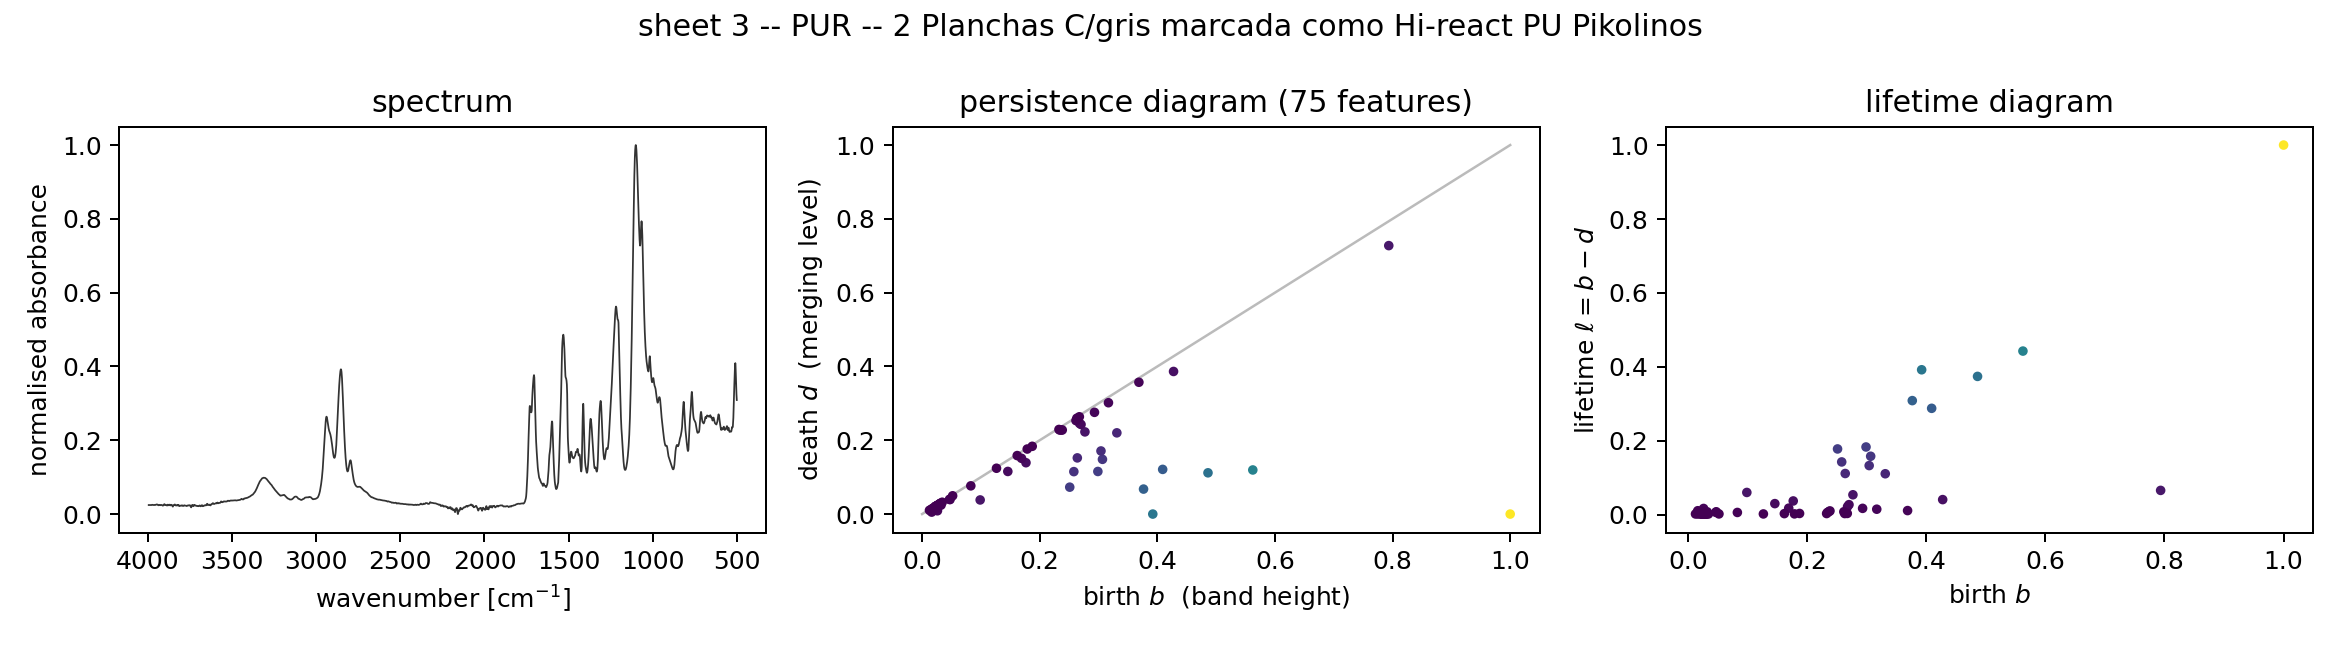
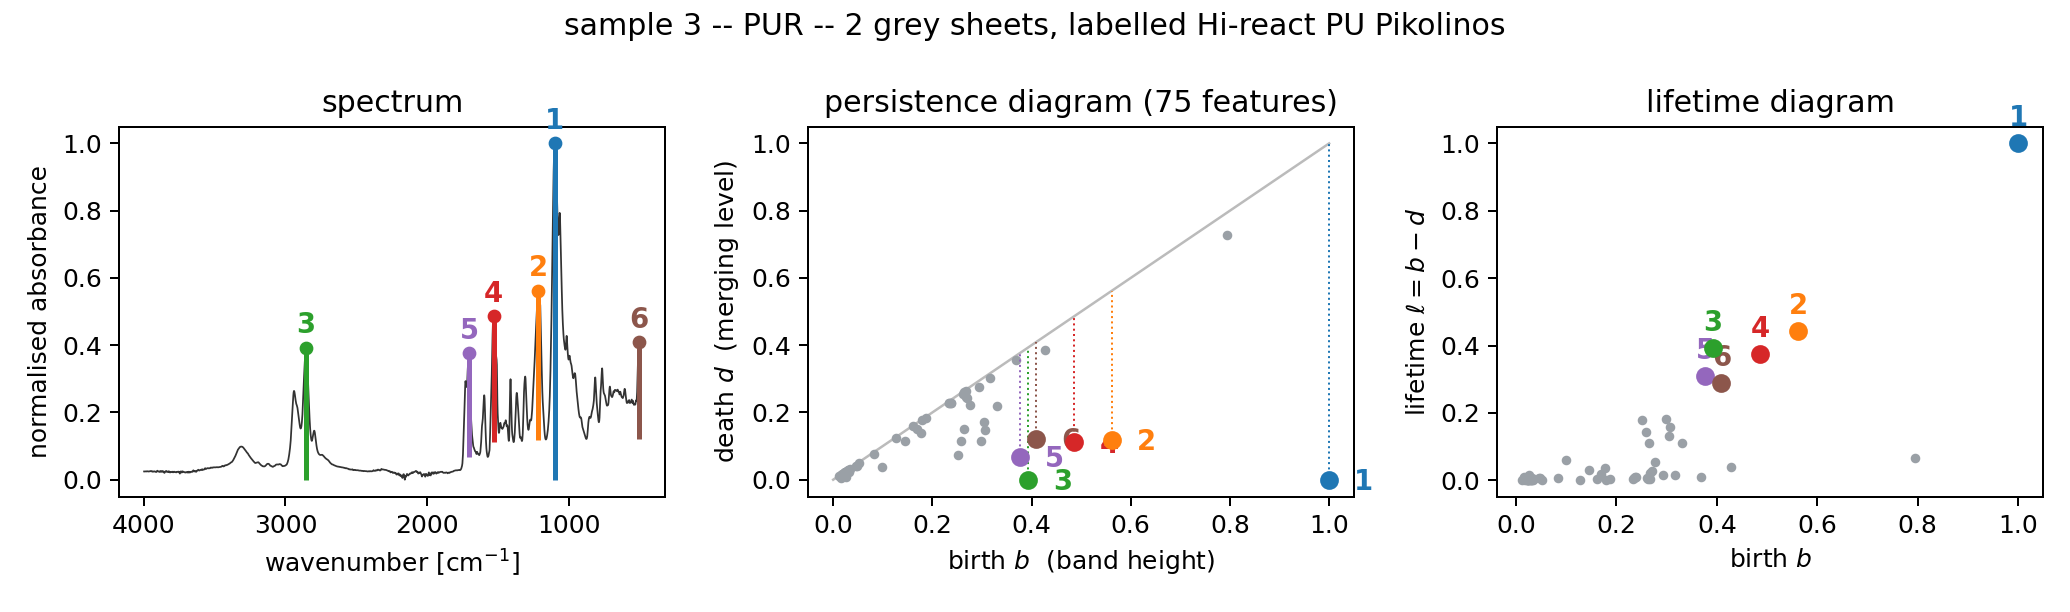
Translate the sample descriptions and mark feature correspondence
The heading of the per-sample diagram figures was the batch description of the
source study, which is Spanish free text. Rather than hard-coding one English
string, add irtda.descriptions, which parses the closed vocabulary those
descriptions use -- three container forms, eight colours, three treatments, the
family acronyms -- and re-renders the fields in English adjective-noun order,
carrying trade names, hardness grades and internal codes through verbatim.
translate() raises UnknownTerm on any Spanish word outside that vocabulary, so a
description added later cannot silently reach a figure in the wrong language.
dataset.load_workbook_spectra now emits description_en alongside description,
and labels.csv carries the column.

plot_diagram numbers the six most persistent features and gives each a colour
shared across the three panels, so a band can be followed from the spectrum to
the point of the persistence diagram it generates and to the point of the
lifetime diagram it becomes. In the spectrum the feature is drawn as a bar
spanning its prominence, from the merging level d up to the band height b, which
also makes the definition of the lifetime visible. Font and marker sizes are set
for the reduction the figure undergoes at full text width.

Three tests cover the translation: the seven description shapes present in the
study, the refusal of an unknown word, and a sweep over all 39 descriptions.

No result changes; only figures/02_diagram_*.png and labels.csv are affected.

diff --git a/src/irtda/descriptions.py b/src/irtda/descriptions.py
@@ -1,0 +1,183 @@
+"""English rendering of the Spanish sample descriptions of the source study.
+
+The characterisation campaign of Blasco et al. (2021) lists every compound by a
+free-text Spanish description of the batch as it was delivered --- how many
+plates or pairs of soles arrived, in what colour, under what trade designation.
+Those strings are the natural sample identifiers and are used as such in the
+figures, but a manuscript written in English cannot carry them untranslated.
+
+The descriptions follow a regular pattern,
+
+    <quantity> <form> [<material>] <colour> <grade ...> [<treatment>]
+
+over a closed vocabulary of eight colours, three container forms and three
+treatments, with everything the parser does not recognise --- trade names,
+hardness grades, internal codes --- carried through verbatim, since those are
+proper nouns and must not be translated. Rendering the parsed fields in English
+adjective-noun order gives idiomatic text rather than the word-by-word
+substitution a lookup table would produce.
+
+The translation is deliberately mechanical and total: :func:`translate` raises
+on any Spanish word it does not know, so that a description added later cannot
+silently reach a figure in the wrong language.
+"""
+
+from __future__ import annotations
+
+import re
+
+__all__ = ["translate", "UnknownTerm"]
+
+
+class UnknownTerm(ValueError):
+    """A description contains a Spanish word outside the closed vocabulary."""
+
+
+# Container in which the batch was supplied.
+FORMS: dict[str, tuple[str, str]] = {
+    "plancha": ("sheet", "sheets"),
+    "planchas": ("sheet", "sheets"),
+    "par": ("pair", "pairs"),
+    "pares": ("pair", "pairs"),
+    "muestra": ("sample", "samples"),
+    "muestras": ("sample", "samples"),
+}
+
+COLOURS: dict[str, str] = {
+    "negro": "black",
+    "marron": "brown",
+    "amarillo": "yellow",
+    "caramelo": "tan",
+    "crudo": "natural",
+    "transparente": "clear",
+    "gris": "grey",
+    "blanco": "white",
+}
+
+# "C/" abbreviates "color"; "C/gris" is a grey-coloured batch.
+COLOUR_PREFIX = re.compile(r"^c/(?P<colour>\w+)$", re.IGNORECASE)
+
+TREATMENTS: dict[str, str] = {
+    "lavado": "washed",
+    "lavados": "washed",
+    "relleno": "filled",
+}
+
+# Material names and family acronyms. The acronyms are carried through
+# unchanged but are recognised here so that they take the adjective-noun
+# position ("black TPU sheets") rather than being pushed into the designation.
+MATERIALS: dict[str, str] = {
+    "caucho": "rubber",
+    "latex": "latex",
+    "eva": "EVA",
+    "tpu": "TPU",
+    "tr": "TR",
+    "pur": "PUR",
+    "pvc": "PVC",
+    "pu": "PU",
+}
+
+# Function words carrying no information once the fields are reordered.
+STOPWORDS = {"de", "del", "la", "el", "los", "las", "y"}
+
+# Multi-word constructions, matched before the token pass.
+PHRASES: list[tuple[re.Pattern[str], str]] = [
+    (re.compile(r"\bsin\s+lavar\b", re.IGNORECASE), "@unwashed"),
+    (re.compile(r"\bmarcada?\s+como\b", re.IGNORECASE), "@labelled"),
+]
+
+_ACCENTS = str.maketrans("áéíóúüñÁÉÍÓÚÜÑ", "aeiouunAEIOUUN")
+
+
+def _fold(word: str) -> str:
+    return word.translate(_ACCENTS).lower()
+
+
+def translate(description: str) -> str:
+    """Render a Spanish batch description in English.
+
+    Parameters
+    ----------
+    description
+        The free-text description as it appears in the source study, e.g.
+        ``"5 planchas PUR negro BK sin lavar"``.
+
+    Returns
+    -------
+    str
+        The English rendering, e.g. ``"5 black PUR sheets, BK, unwashed"``.
+
+    Raises
+    ------
+    UnknownTerm
+        If a lower-case word is neither in the vocabulary above nor recognisable
+        as a designation (which are kept verbatim). Designations are detected by
+        case and punctuation: a token containing an upper-case letter, a digit
+        or a slash is a trade name, a hardness grade or an internal code.
+    """
+    text = description.strip()
+    for pattern, marker in PHRASES:
+        text = pattern.sub(marker, text)
+
+    quantity: str | None = None
+    form: tuple[str, str] | None = None
+    colour: str | None = None
+    material: str | None = None
+    labelled = False
+    treatments: list[str] = []
+    designation: list[str] = []
+
+    for token in text.split():
+        folded = _fold(token)
+
+        if quantity is None and designation == [] and token.isdigit():
+            quantity = token
+            continue
+        if folded == "@unwashed":
+            treatments.append("unwashed")
+            continue
+        if folded == "@labelled":
+            labelled = True
+            continue
+        if folded in STOPWORDS:
+            continue
+        if folded in FORMS:
+            form = FORMS[folded]
+            continue
+        if folded in TREATMENTS:
+            treatments.append(TREATMENTS[folded])
+            continue
+        if folded in COLOURS and colour is None:
+            colour = COLOURS[folded]
+            continue
+        # Everything after "marcada como" is a quoted trade designation and is
+        # reproduced verbatim, so no material is extracted from it.
+        if folded in MATERIALS and material is None and not labelled:
+            material = MATERIALS[folded]
+            continue
+
+        match = COLOUR_PREFIX.match(folded)
+        if match and colour is None:
+            key = match.group("colour")
+            if key not in COLOURS:
+                raise UnknownTerm(f"unknown colour {key!r} in {description!r}")
+            colour = COLOURS[key]
+            continue
+
+        # Anything left must look like a designation rather than a Spanish word.
+        if token.islower() and token.isalpha():
+            raise UnknownTerm(f"untranslated word {token!r} in {description!r}")
+        designation.append(token)
+
+    plural = quantity is not None and quantity != "1"
+    head = [part for part in (quantity, colour, material) if part]
+    if form is not None:
+        head.append(form[1] if plural else form[0])
+
+    out = " ".join(head)
+    if designation:
+        joined = " ".join(designation)
+        out += f", labelled {joined}" if labelled else f", {joined}"
+    if treatments:
+        out += ", " + " and ".join(treatments)
+    return out

diff --git a/src/irtda/plotting.py b/src/irtda/plotting.py
@@ -64,31 +64,77 @@ def plot_spectra_by_family(wavenumber, intensity, families, path):
     plt.close(fig)
 
 
-def plot_diagram(wavenumber, intensity, diagram, title, path, n_annotate=8):
-    """Spectrum, its persistence diagram and its lifetime diagram, side by side."""
-    fig, axes = plt.subplots(1, 3, figsize=(13, 3.6))
+def plot_diagram(wavenumber, intensity, diagram, title, path,
+                 birth_wavenumber=None, n_annotate=6):
+    """Spectrum, its persistence diagram and its lifetime diagram, side by side.
 
-    axes[0].plot(wavenumber, intensity, lw=0.7, color="#333333")
-    axes[0].invert_xaxis()
-    axes[0].set_xlabel("wavenumber [cm$^{-1}$]")
-    axes[0].set_ylabel("normalised absorbance")
-    axes[0].set_title("spectrum")
+    The ``n_annotate`` most persistent features are numbered and given a common
+    colour in all three panels, so that the correspondence between an absorption
+    band, the point of the persistence diagram it generates and the point of the
+    lifetime diagram it becomes can be followed by eye. In the spectrum the
+    feature is drawn as a vertical bar spanning its prominence, from the merging
+    level ``d`` up to the band height ``b``.
+
+    Parameters
+    ----------
+    birth_wavenumber
+        Wavenumber of the maximum generating each feature, aligned row by row
+        with ``diagram`` --- the first column of the position-lifetime diagram.
+        Without it the panels are drawn unnumbered.
+    """
+    fig, axes = plt.subplots(1, 3, figsize=(11.5, 3.4))
 
     # Superlevel-set diagrams are expressed in the units of the spectrum, so
     # birth is the band height, death < birth is the merging level, and the
     # points lie below the diagonal.
     lifetimes = persistence_of(diagram)
+    lt = lifetime_diagram(diagram)
+
+    marked = np.empty(0, dtype=int)
+    if birth_wavenumber is not None and len(diagram):
+        marked = np.argsort(-lifetimes)[: min(n_annotate, len(diagram))]
+    palette = plt.get_cmap("tab10")
+    colour = {int(k): palette(i % 10) for i, k in enumerate(marked)}
+
+    def annotate(ax, x, y, rank, feature, offset=(0, 6), ha="center"):
+        ax.annotate(str(rank), (x, y), textcoords="offset points",
+                    xytext=offset, ha=ha, va="center", fontsize=11,
+                    weight="bold", color=colour[feature])
+
+    # -- spectrum ------------------------------------------------------------
+    axes[0].plot(wavenumber, intensity, lw=0.7, color="#333333", zorder=2)
+    for rank, k in enumerate(marked, start=1):
+        k = int(k)
+        nu, b, d = birth_wavenumber[k], diagram[k, 0], diagram[k, 1]
+        axes[0].vlines(nu, d, b, color=colour[k], lw=2.0, zorder=3)
+        axes[0].plot([nu], [b], "o", ms=4.5, color=colour[k], zorder=4)
+        annotate(axes[0], nu, b, rank, k, offset=(0, 9))
+    axes[0].invert_xaxis()
+    axes[0].set_xlabel("wavenumber [cm$^{-1}$]")
+    axes[0].set_ylabel("normalised absorbance")
+    axes[0].set_title("spectrum")
+
+    # -- persistence diagram -------------------------------------------------
     lo = min(diagram[:, 0].min(), diagram[:, 1].min())
     hi = max(diagram[:, 0].max(), diagram[:, 1].max())
-    axes[1].plot([lo, hi], [lo, hi], color="#bbbbbb", lw=1)
-    axes[1].scatter(diagram[:, 0], diagram[:, 1], s=8, c=lifetimes,
-                    cmap="viridis", zorder=3)
+    axes[1].plot([lo, hi], [lo, hi], color="#bbbbbb", lw=1, zorder=1)
+    axes[1].scatter(diagram[:, 0], diagram[:, 1], s=8, color="#9aa0a6", zorder=2)
+    for rank, k in enumerate(marked, start=1):
+        k = int(k)
+        b, d = diagram[k, 0], diagram[k, 1]
+        axes[1].vlines(b, d, b, color=colour[k], lw=0.8, ls=":", zorder=3)
+        axes[1].plot([b], [d], "o", ms=6.5, color=colour[k], zorder=4)
+        annotate(axes[1], b, d, rank, k, offset=(10, -1), ha="left")
     axes[1].set_xlabel(r"birth $b$  (band height)")
     axes[1].set_ylabel(r"death $d$  (merging level)")
     axes[1].set_title(f"persistence diagram ({len(diagram)} features)")
 
-    lt = lifetime_diagram(diagram)
-    axes[2].scatter(lt[:, 0], lt[:, 1], s=8, c=lt[:, 1], cmap="viridis")
+    # -- lifetime diagram ----------------------------------------------------
+    axes[2].scatter(lt[:, 0], lt[:, 1], s=8, color="#9aa0a6", zorder=2)
+    for rank, k in enumerate(marked, start=1):
+        k = int(k)
+        axes[2].plot([lt[k, 0]], [lt[k, 1]], "o", ms=6.5, color=colour[k], zorder=4)
+        annotate(axes[2], lt[k, 0], lt[k, 1], rank, k, offset=(0, 10))
     axes[2].set_xlabel(r"birth $b$")
     axes[2].set_ylabel(r"lifetime $\ell = b - d$")
     axes[2].set_title("lifetime diagram")

diff --git a/tests/test_persistence.py b/tests/test_persistence.py
@@ -1,5 +1,7 @@
 """Correctness checks for the persistence computation and its vectorisation."""
 
+from pathlib import Path
+
 import numpy as np
 import pytest
 
@@ -215,3 +217,41 @@ def test_sliced_wasserstein_is_invariant_under_the_sign_convention():
     assert clustering.wasserstein(a, b) == pytest.approx(
         clustering.wasserstein(-a, -b), rel=1e-9
     )
+
+
+def test_descriptions_are_translated_into_english():
+    """Every Spanish batch description of the study renders in English."""
+    from irtda import descriptions
+
+    cases = {
+        "5 planchas PUR negro BK sin lavar": "5 black PUR sheets, BK, unwashed",
+        "8 pares TR marrón CLO/7922/65": "8 brown TR pairs, CLO/7922/65",
+        "4 Planchas de Eva amarillo": "4 yellow EVA sheets",
+        "9 muestras PVC negro": "9 black PVC samples",
+        "3 planchas caucho marrón LATEX": "3 brown rubber sheets, LATEX",
+        "6 planchas EVA negro MII relleno": "6 black EVA sheets, MII, filled",
+        # Everything after "marcada como" is a quoted trade name, kept verbatim.
+        "2 Planchas C/gris marcada como Hi-react PU Pikolinos":
+            "2 grey sheets, labelled Hi-react PU Pikolinos",
+    }
+    for spanish, english in cases.items():
+        assert descriptions.translate(spanish) == english
+
+
+def test_translation_refuses_an_unknown_spanish_word():
+    """A description added later cannot reach a figure untranslated."""
+    from irtda import descriptions
+
+    with pytest.raises(descriptions.UnknownTerm):
+        descriptions.translate("5 planchas TPU verde XYZ")
+
+
+def test_every_description_in_the_data_set_is_translatable():
+    import pandas as pd
+    from irtda import descriptions
+
+    path = Path(__file__).resolve().parents[1] / "data/processed/labels.csv"
+    if not path.exists():                       # data not extracted yet
+        pytest.skip("data/processed/labels.csv not present")
+    for text in pd.read_csv(path)["description"]:
+        assert descriptions.translate(text)

diff --git a/scripts/02_compute_persistence.py b/scripts/02_compute_persistence.py
@@ -125,10 +125,14 @@ def main() -> None:
     # -- figures -------------------------------------------------------------
     for row in (0, len(diagrams) // 2):
         meta = labels.iloc[row]
+        # The first column of the fingerprint diagram is the wavenumber of the
+        # maximum generating each feature, row-aligned with the pruned diagram.
+        birth_wavenumber = descriptors.fingerprints[row][:, 0]
         plotting.plot_diagram(
             wavenumber, intensity[row], diagrams[row],
-            f"sheet {meta['sheet']} -- {meta['family']} -- {meta['description']}",
+            f"sample {meta['sheet']} -- {meta['family']} -- {meta['description_en']}",
             FIGURES / f"02_diagram_{meta['sheet']}.png",
+            birth_wavenumber=birth_wavenumber,
         )
 
     order = labels.sort_values(["family", "sheet"]).index.to_numpy()[:12]

diff --git a/src/irtda/dataset.py b/src/irtda/dataset.py
@@ -10,6 +10,8 @@ import numpy as np
 import openpyxl
 import pandas as pd
 
+from . import descriptions
+
 # Common resampling grid. Every worksheet in the source workbook covers
 # approximately 499-4000 cm^-1; this range is shared by all of them.
 WAVENUMBER_MIN = 500.0
@@ -132,6 +134,7 @@ def load_workbook_spectra(
                 "sheet": sheet_name,
                 "reference": number,
                 "description": description,
+                "description_en": descriptions.translate(description),
                 "supplier": supplier,
                 "family": assign_family(description),
                 "n_points_raw": len(k),
